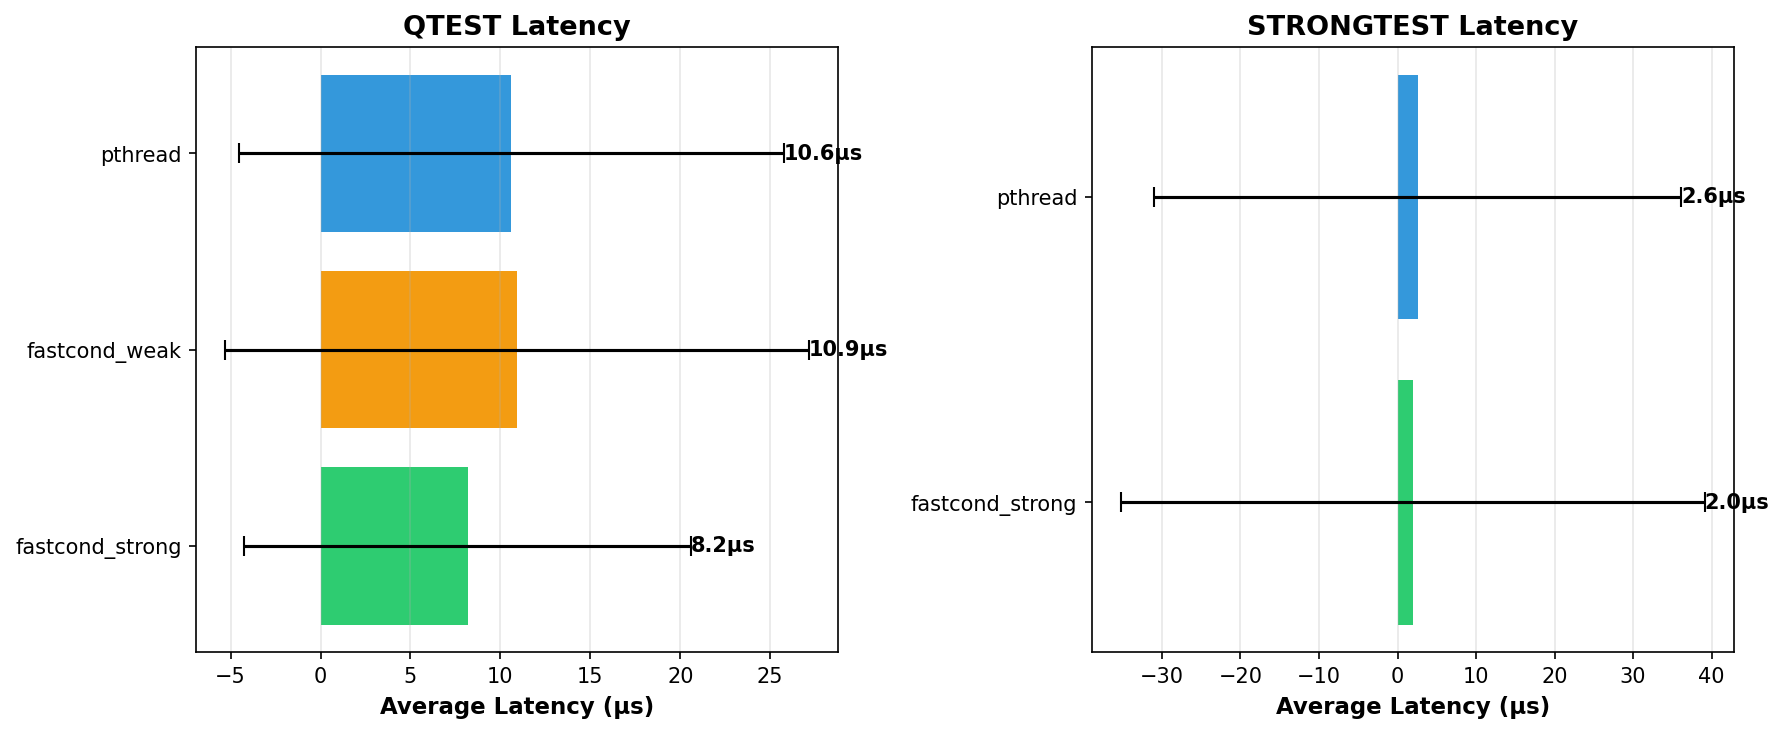
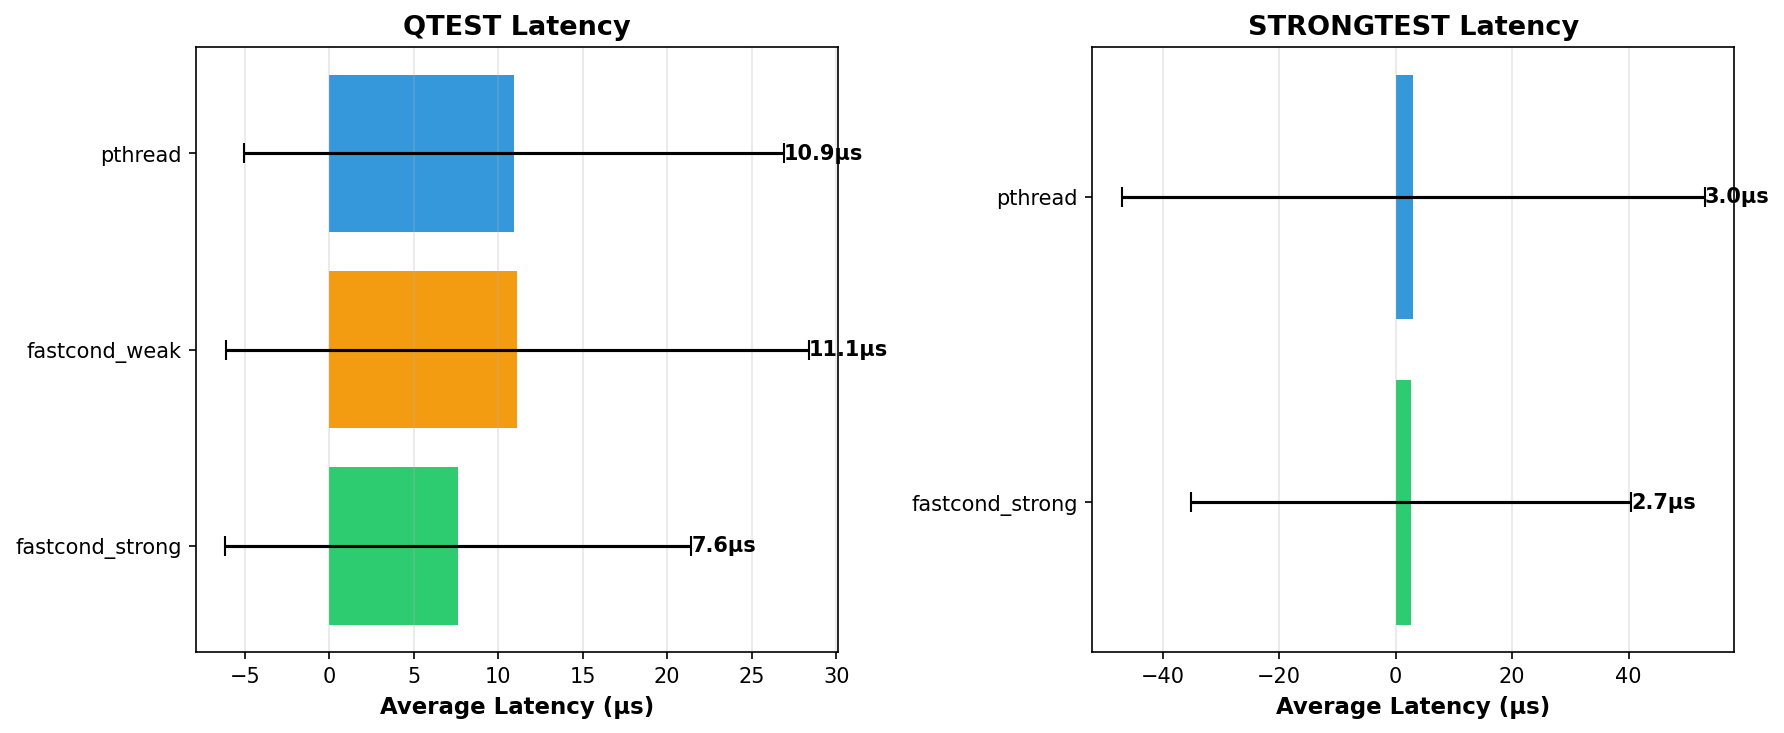
Reorganize documentation: separate user-facing from development docs
Move development and process documentation to dev-docs/:
- BENCHMARKS-QUICKSTART.md
- benchmarking.md
- ci-benchmarks.md
- DEPLOY-NOW.md
- DEPLOYMENT.md
- test-hanging-issue.md

Keep user-facing documentation in docs/:
- performance-analysis.md
- benchmark-results.* (generated results)
- *.png (charts)

Benefits:
- Clear separation between user docs and developer docs
- docs/ folder now focused on user-facing content
- dev-docs/ contains all development/process documentation
- Updated all internal references to new paths
- Added dev-docs/README.md with navigation guide

Updated README.md with documentation structure overview.

diff --git a/dev-docs/README.md b/dev-docs/README.md
@@ -1,0 +1,78 @@
+# Development Documentation
+
+This directory contains documentation for developers and contributors to the fastcond project.
+
+## Overview
+
+- **docs/** - User-facing documentation (API, performance results, etc.)
+- **dev-docs/** - Development and process documentation (this directory)
+
+## Contents
+
+### Benchmarking & Performance
+- **[BENCHMARKS-QUICKSTART.md](BENCHMARKS-QUICKSTART.md)** - Quick reference for all benchmarking usage modes
+- **[benchmarking.md](benchmarking.md)** - Complete local benchmarking guide
+- **[ci-benchmarks.md](ci-benchmarks.md)** - Complete CI/CD integration guide
+
+### Deployment & Process
+- **[DEPLOY-NOW.md](DEPLOY-NOW.md)** - Simple step-by-step deployment checklist
+- **[DEPLOYMENT.md](DEPLOYMENT.md)** - Comprehensive deployment guide
+- **[test-hanging-issue.md](test-hanging-issue.md)** - Documentation of macOS hanging issue resolution
+
+## Quick Navigation
+
+### For Contributors
+- Setting up benchmarks: [BENCHMARKS-QUICKSTART.md](BENCHMARKS-QUICKSTART.md)
+- CI/CD workflow: [ci-benchmarks.md](ci-benchmarks.md)
+- Deployment process: [DEPLOY-NOW.md](DEPLOY-NOW.md)
+
+### For Maintainers
+- Complete deployment guide: [DEPLOYMENT.md](DEPLOYMENT.md)
+- Benchmarking system: [benchmarking.md](benchmarking.md)
+- Historical issues: [test-hanging-issue.md](test-hanging-issue.md)
+
+## Documentation Structure
+
+```
+fastcond/
+├── docs/                           # User-facing documentation
+│   ├── benchmark-results.json      # Latest benchmark data
+│   ├── benchmark-results.md        # Latest benchmark tables
+│   ├── performance-analysis.md     # Performance insights
+│   └── *.png                      # Benchmark charts
+│
+└── dev-docs/                      # Development documentation (this dir)
+    ├── README.md                   # This file
+    ├── BENCHMARKS-QUICKSTART.md    # Quick benchmarking reference
+    ├── benchmarking.md             # Complete benchmarking guide
+    ├── ci-benchmarks.md            # CI/CD integration guide
+    ├── DEPLOY-NOW.md               # Quick deployment checklist
+    ├── DEPLOYMENT.md               # Complete deployment guide
+    └── test-hanging-issue.md       # Historical issue documentation
+```
+
+## Contributing to Documentation
+
+When adding new documentation:
+
+1. **User-facing docs** → Place in `docs/`
+   - API documentation
+   - Performance results
+   - Usage examples
+   - Public benchmarks
+
+2. **Development docs** → Place in `dev-docs/`
+   - Build processes
+   - CI/CD workflows
+   - Deployment guides
+   - Troubleshooting
+   - Historical issue documentation
+
+3. **Update this README** when adding new files
+
+## Links to Other Documentation
+
+- **[../README.md](../README.md)** - Main project README
+- **[../BUILD.md](../BUILD.md)** - Build instructions
+- **[../CONTRIBUTING.md](../CONTRIBUTING.md)** - Contribution guidelines
+- **[../CHANGELOG.md](../CHANGELOG.md)** - Version history

diff --git a/docs/benchmark-results.md b/docs/benchmark-results.md
@@ -7,27 +7,27 @@ Generated from: `/home/kristjan/git/fastcond/docs/benchmark-results.json`
 ### Throughput Comparison
 | Implementation | Throughput (items/sec) | Speedup vs pthread |
 |---|---:|---:|
-| fastcond_strong | 577,906.14 | +31.9% |
-| fastcond_weak | 490,652.14 | +12.0% |
-| pthread | 438,259.90 | baseline |
+| fastcond_strong | 640,088.81 | +45.5% |
+| pthread | 439,862.18 | baseline |
+| fastcond_weak | 388,728.81 | -11.6% |
 
 ### Average Latency Comparison
 | Implementation | Avg Latency (μs) | Min (μs) | Max (μs) | Stdev (μs) |
 |---|---:|---:|---:|---:|
-| pthread | 10.60 | 0.05 | 123.43 | 15.15 |
-| fastcond_strong | 8.18 | 0.04 | 106.50 | 12.40 |
-| fastcond_weak | 10.93 | 0.04 | 118.24 | 16.22 |
+| pthread | 10.91 | 0.05 | 141.03 | 15.98 |
+| fastcond_strong | 7.64 | 0.04 | 169.96 | 13.79 |
+| fastcond_weak | 11.14 | 0.05 | 158.92 | 17.24 |
 
 ## STRONGTEST
 **Configuration:** Strong semantics test (10K items, queue size 5)
 ### Throughput Comparison
 | Implementation | Throughput (items/sec) | Speedup vs pthread |
 |---|---:|---:|
-| fastcond_strong | 1,173,385.69 | +19.7% |
-| pthread | 980,596.74 | baseline |
+| fastcond_strong | 1,139,642.05 | +2.4% |
+| pthread | 1,112,967.29 | baseline |
 
 ### Average Latency Comparison
 | Implementation | Avg Latency (μs) | Min (μs) | Max (μs) | Stdev (μs) |
 |---|---:|---:|---:|---:|
-| pthread | 2.57 | 0.04 | 1565.10 | 33.57 |
-| fastcond_strong | 1.97 | 0.04 | 1550.20 | 37.16 |
+| pthread | 3.02 | 0.04 | 1609.95 | 50.09 |
+| fastcond_strong | 2.66 | 0.04 | 1382.67 | 37.77 |

diff --git a/README.md b/README.md
@@ -22,7 +22,7 @@ ctest --test-dir build --output-on-failure
 ./scripts/run_benchmarks.sh
 ```
 
-See [BUILD.md](BUILD.md) for detailed build instructions and [docs/benchmarking.md](docs/benchmarking.md) for performance testing.
+See [BUILD.md](BUILD.md) for detailed build instructions and [dev-docs/benchmarking.md](dev-docs/benchmarking.md) for performance testing.
 
 ## Development
 
@@ -76,3 +76,9 @@ On multi-core systems, fastcond shows significant performance improvements over 
 
 See [docs/performance-analysis.md](docs/performance-analysis.md) for detailed benchmark results and analysis.
 
+## Documentation
+
+- **[docs/](docs/)** - User-facing documentation (performance results, API reference)
+- **[dev-docs/](dev-docs/)** - Development documentation (benchmarking, CI/CD, deployment)
+- **[BUILD.md](BUILD.md)** - Build instructions
+- **[CONTRIBUTING.md](CONTRIBUTING.md)** - Contribution guidelines

diff --git a/dev-docs/BENCHMARKS-QUICKSTART.md b/dev-docs/BENCHMARKS-QUICKSTART.md
@@ -88,8 +88,8 @@ docs/
 
 ## 🔗 Documentation
 
-- **[benchmarking.md](docs/benchmarking.md)** - Complete local benchmarking guide
-- **[ci-benchmarks.md](docs/ci-benchmarks.md)** - Complete CI/CD integration guide
+- **[benchmarking.md](benchmarking.md)** - Complete local benchmarking guide
+- **[ci-benchmarks.md](ci-benchmarks.md)** - Complete CI/CD integration guide
 - **[performance-analysis.md](docs/performance-analysis.md)** - Performance analysis and insights
 
 ## 🚀 Quick Examples
@@ -130,6 +130,6 @@ new = json.load(open('docs/benchmark-results.json'))
 
 ## ❓ Need Help?
 
-- **Local issues**: See [benchmarking.md](docs/benchmarking.md)
-- **CI issues**: See [ci-benchmarks.md](docs/ci-benchmarks.md)
+- **Local issues**: See [benchmarking.md](benchmarking.md)
+- **CI issues**: See [ci-benchmarks.md](ci-benchmarks.md)
 - **Build issues**: See [BUILD.md](BUILD.md)

diff --git a/dev-docs/DEPLOYMENT.md b/dev-docs/DEPLOYMENT.md
@@ -266,5 +266,5 @@ You'll have:
 ## Need Help?
 
 - **CI Issues:** Check Actions tab → Click workflow → View logs
-- **Local Issues:** See [docs/benchmarking.md](docs/benchmarking.md)
-- **GitHub Pages:** See [docs/ci-benchmarks.md](docs/ci-benchmarks.md)
+- **Local Issues:** See [benchmarking.md](benchmarking.md)
+- **GitHub Pages:** See [ci-benchmarks.md](ci-benchmarks.md)
